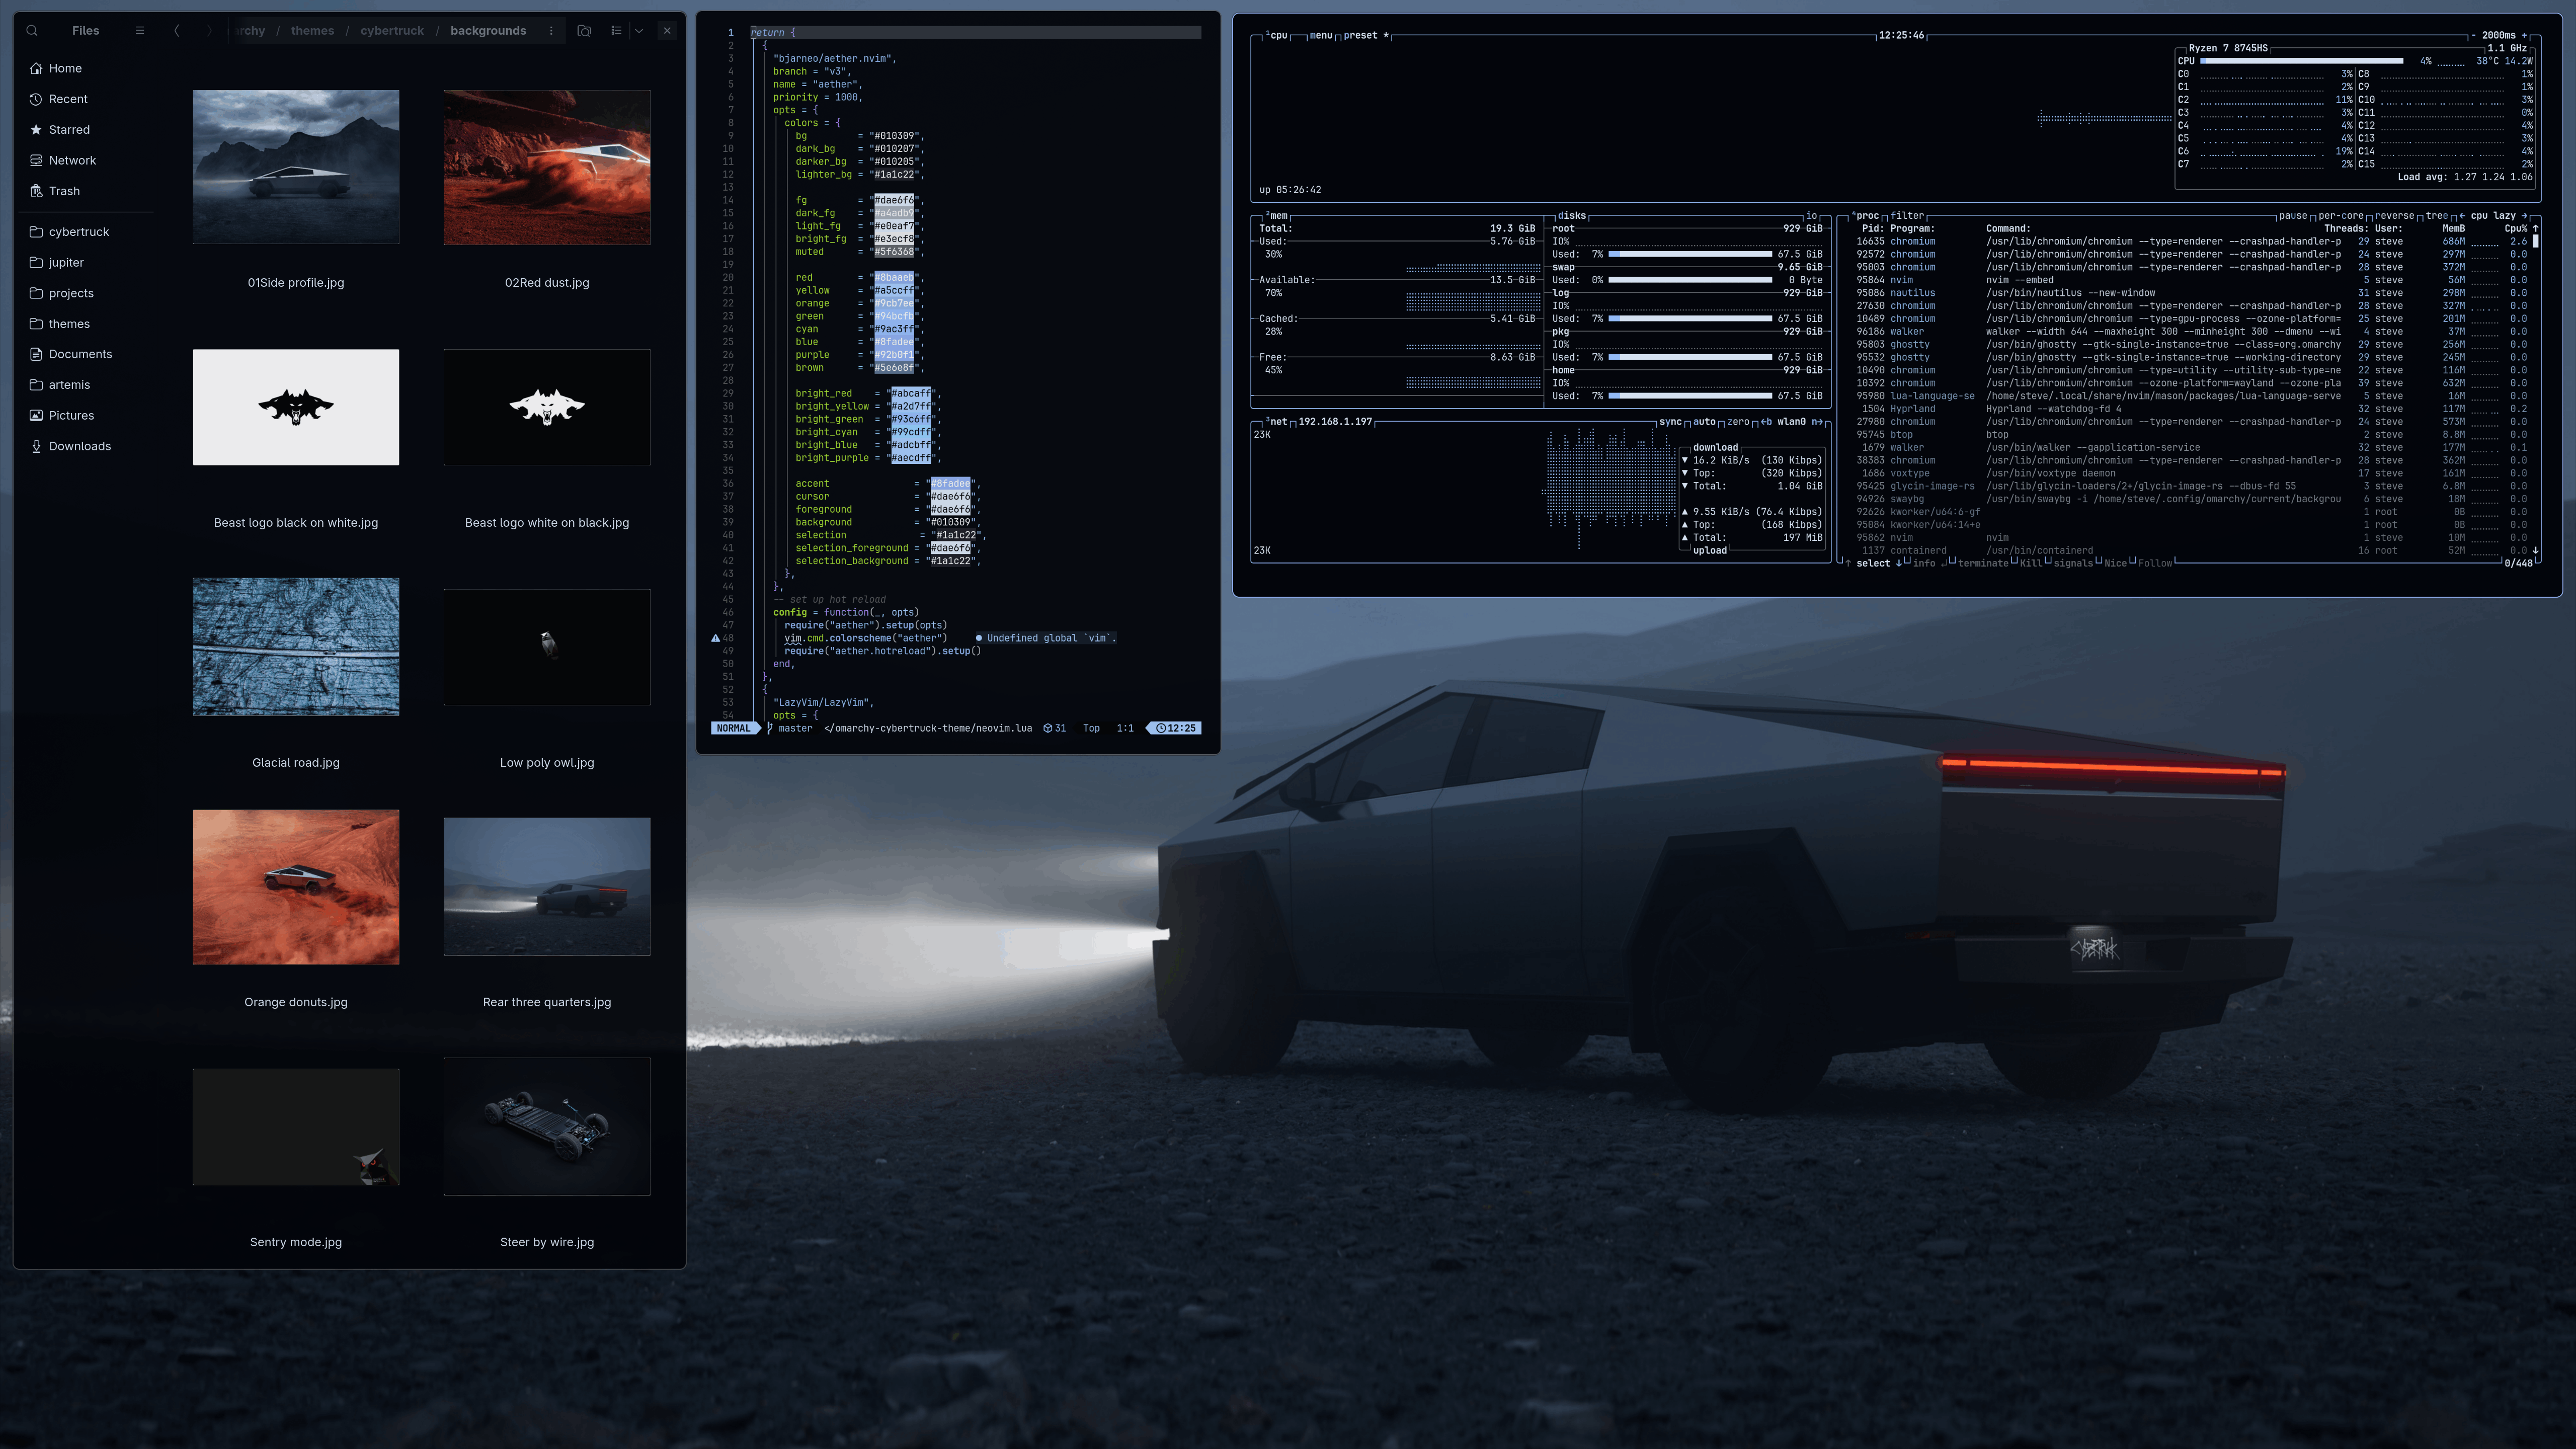
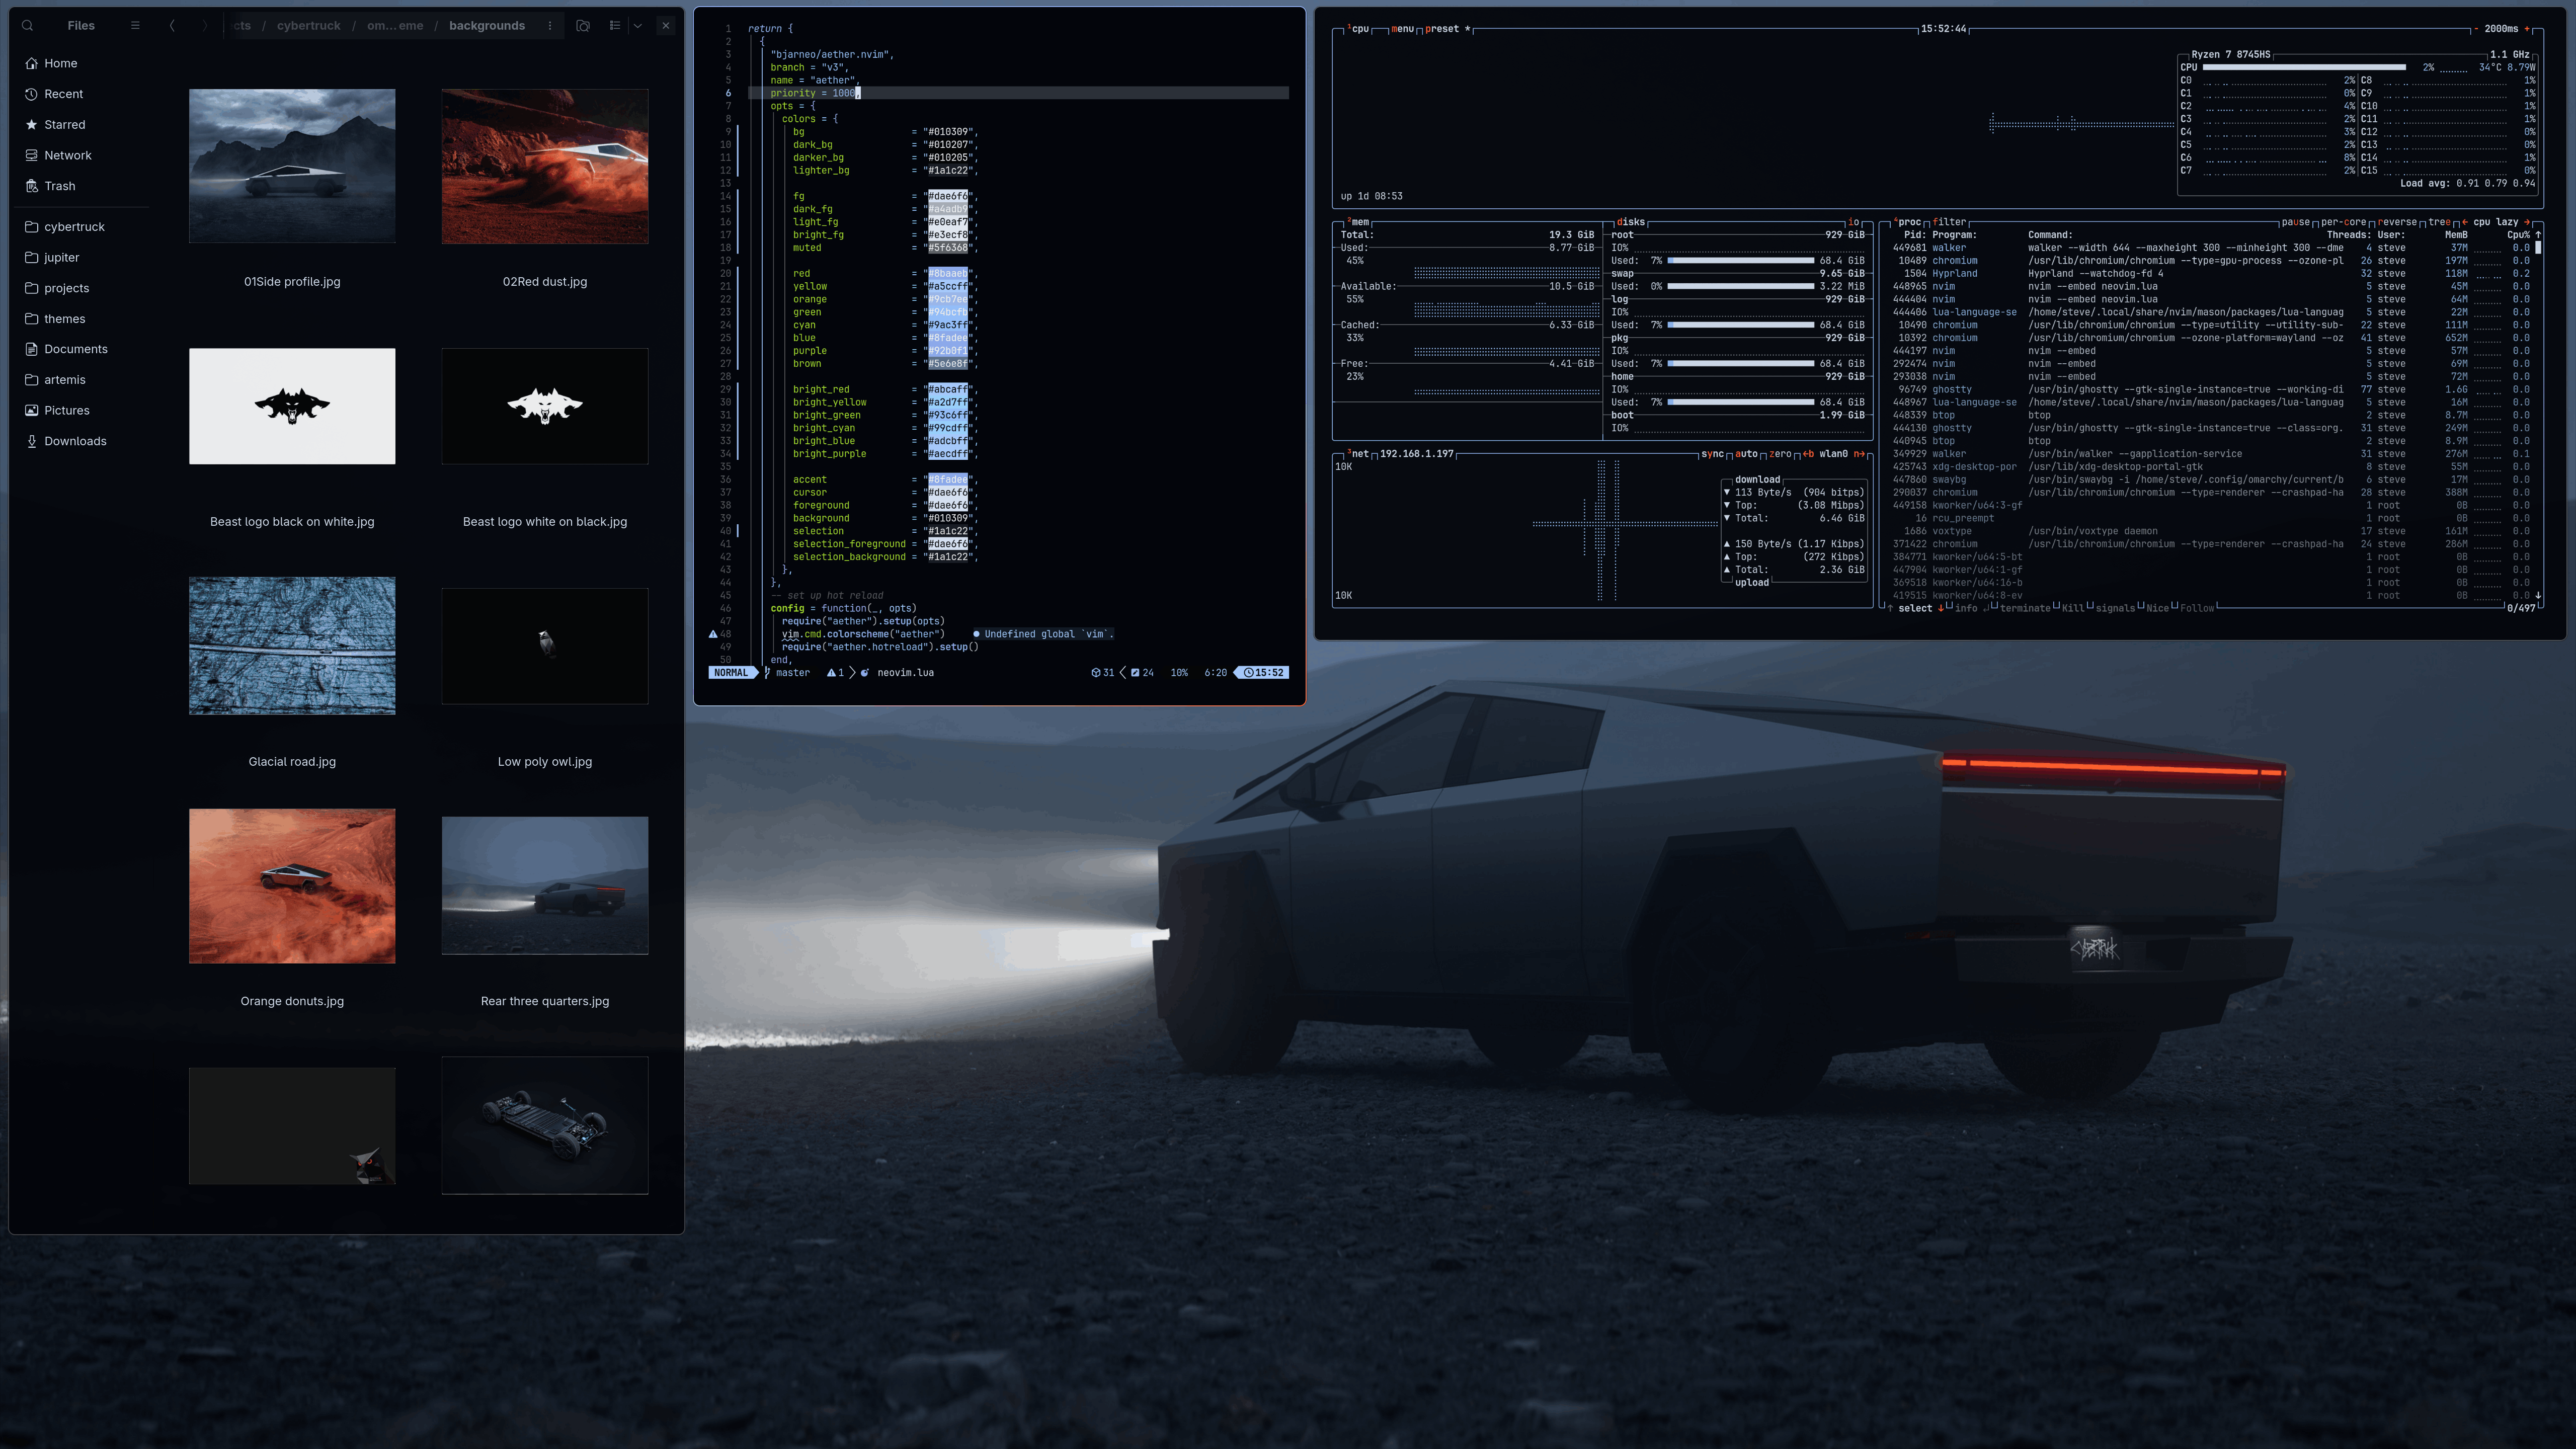
New orange accent color and preview image

diff --git a/README.md b/README.md
@@ -6,8 +6,8 @@ Omarchy theme honoring Tesla’s Cybertruck. Dark backgrounds, grey / blue / whi
 **Cybertruck** is an Omarchy theme honoring Tesla's Cybertruck.
 
 Inspired by the Cybertruck, it features:
-- Blacks and stainless steel inspired grays
-- High-quality wallpapaers from Tesla and others that highlight the unique design of the Cybertruck
+- Blacks and stainless steel inspired grays, with subtle reddish orange accents
+- High-quality wallpapers from Tesla and others that highlight the unique design of the Cybertruck
 
 ## Installation
 